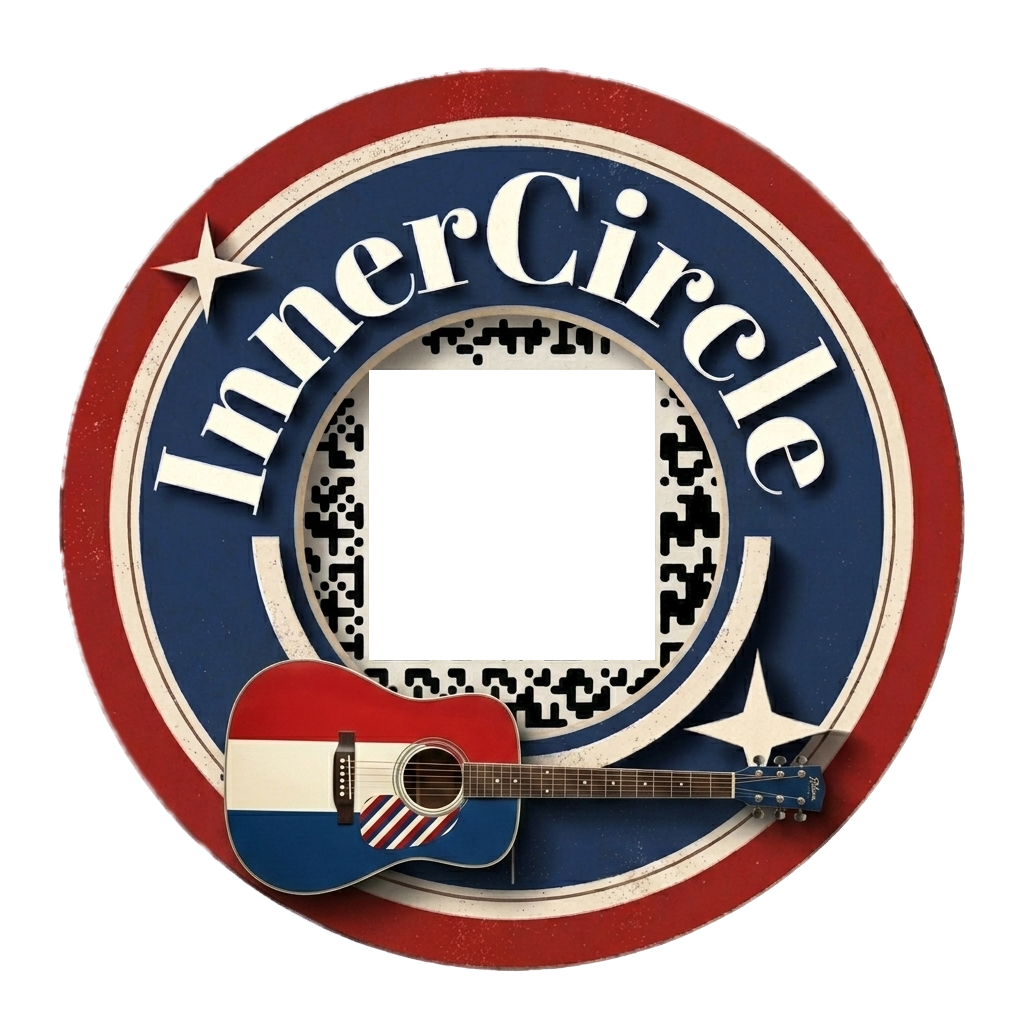
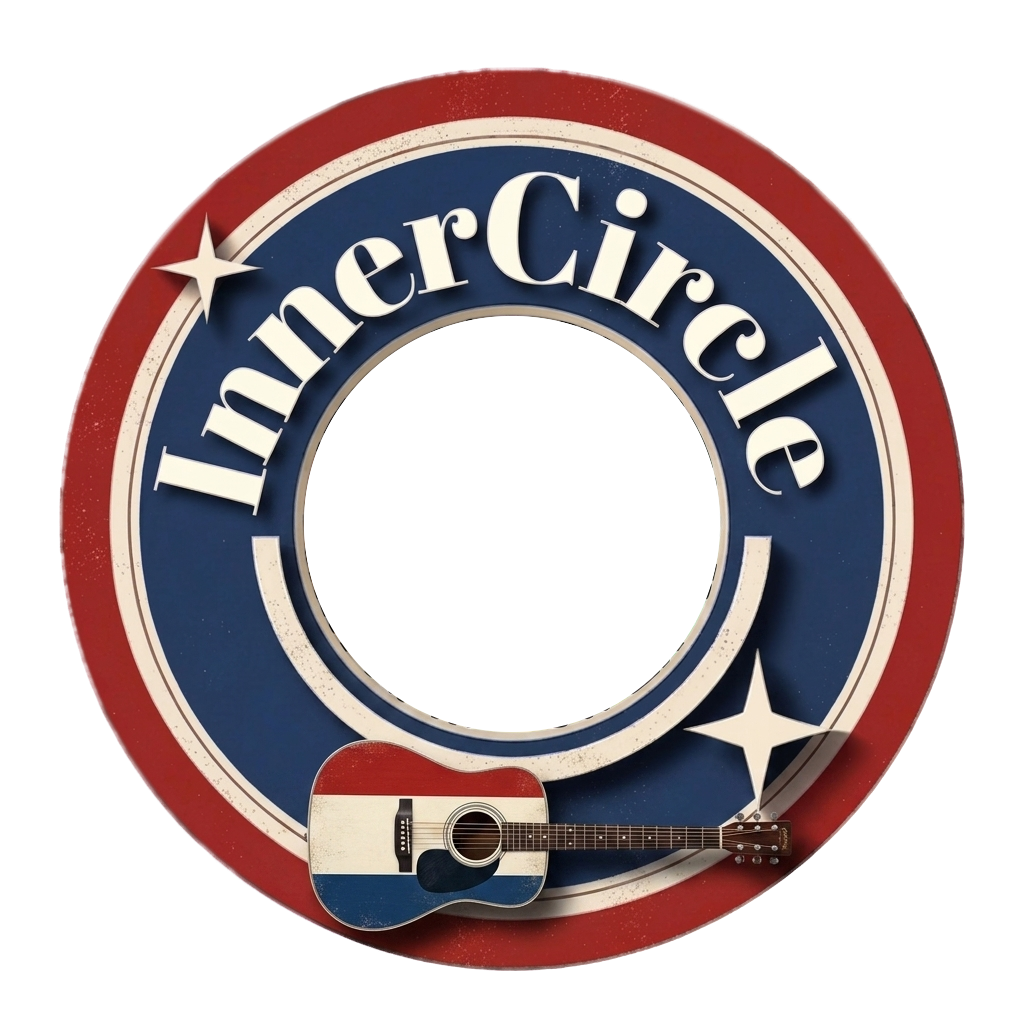
Finalize screen video badge and QR lure field

diff --git a/pete_qr_video.py b/pete_qr_video.py
@@ -62,21 +62,21 @@ badge_center_x = BG_W // 2
 badge_center_y = 320
 
 # QR i badge
-qr_size = 168
+qr_size = 162
 qr_center_x_rel = 280
-qr_center_y_rel = 283
+qr_center_y_rel = 288.4
 
 # Glow / puls
 base_glow_blur = 36
 base_glow_strength = 1.12
 pulse_scale_amount = 0.022
 pulse_speed = 1.0
-unlock_boost_start = 5.2
-unlock_flash_strength = 0.16
+unlock_boost_start = 999
+unlock_flash_strength = 0.0
 
 # Stjerner
 np.random.seed(42)
-num_stars = 260
+num_stars = 420
 stars = []
 
 headline_y = 22
@@ -95,7 +95,7 @@ brand_secondary_color = (200, 205, 214, 255)
 
 # QR-farger
 qr_fill_color = "#000000"
-qr_back_color = "#F4EFE6"
+qr_back_color = "#FFFFFF"
 
 # -----------------------------
 # FONTS
@@ -189,7 +189,11 @@ qr.add_data(qr_data)
 qr.make(fit=True)
 
 qr_img = qr.make_image(fill_color=qr_fill_color, back_color=qr_back_color).convert("RGBA")
-qr_img = qr_img.resize((qr_size, qr_size), Image.Resampling.LANCZOS)
+qr_img = qr_img.resize((int(qr_size * 0.98), int(qr_size * 0.98)), Image.Resampling.LANCZOS)
+
+lure_img = Image.open("assets/qr-lure/innercircle-lure.png").convert("RGBA")
+lure_size = int(qr_size * 1.418)
+lure_img = lure_img.resize((lure_size, lure_size), Image.Resampling.LANCZOS)
 
 # -----------------------------
 # LAST RAMME
@@ -208,7 +212,7 @@ frame_base_x = badge_center_x - FW // 2
 frame_base_y = badge_center_y - FH // 2
 
 paste_x = frame_base_x + qr_center_x_rel - (qr_size // 2)
-paste_y = frame_base_y + qr_center_y_rel - (qr_size // 2)
+paste_y = int(frame_base_y + qr_center_y_rel - (qr_size // 2) - 1)
 
 # -----------------------------
 # GLOW-FORARBEID
@@ -251,19 +255,50 @@ def make_background(t: float) -> Image.Image:
     depth = depth.filter(ImageFilter.GaussianBlur(120))
     canvas.alpha_composite(depth)
 
-    # Stjerner
+    # Living star field
     star_layer = Image.new("RGBA", (BG_W, BG_H), (0, 0, 0, 0))
+    star_draw = ImageDraw.Draw(star_layer, "RGBA")
+
     for s in stars:
-        brightness = int(105 + 120 * (0.5 + 0.5 * math.sin(t * s["speed"] + s["phase"])))
-        y = int((s["y"] + t * 3.2) % BG_H)
+        twinkle = 0.45 + 0.55 * math.sin(t * s["speed"] * 2.1 + s["phase"])
+        brightness = int(65 + 165 * twinkle)
+        y = int((s["y"] + t * 4.2) % BG_H)
 
-        for dx in range(s["size"]):
-            for dy in range(s["size"]):
-                px = s["x"] + dx
-                py = y + dy
-                if 0 <= px < BG_W and 0 <= py < BG_H:
-                    star_layer.putpixel((px, py), (brightness, brightness, brightness, 255))
+        alpha = int(90 + 130 * twinkle)
+        radius = max(1, s["size"])
 
+        star_draw.ellipse(
+            (s["x"] - radius, y - radius, s["x"] + radius, y + radius),
+            fill=(brightness, brightness, brightness, alpha),
+        )
+
+    # One or two subtle shooting stars, behind badge/text
+    shooting_specs = [
+        {"start": 1.15, "duration": 0.95, "x": 545, "y": 105, "dx": -245, "dy": 145},
+        {"start": 5.35, "duration": 0.85, "x": 610, "y": 265, "dx": -210, "dy": 120},
+    ]
+
+    for spec in shooting_specs:
+        progress = (t - spec["start"]) / spec["duration"]
+        if 0 <= progress <= 1:
+            fade = math.sin(progress * math.pi)
+            head_x = spec["x"] + spec["dx"] * progress
+            head_y = spec["y"] + spec["dy"] * progress
+            tail_x = head_x - spec["dx"] * 0.22
+            tail_y = head_y - spec["dy"] * 0.22
+
+            alpha = int(165 * fade)
+            star_draw.line(
+                (tail_x, tail_y, head_x, head_y),
+                fill=(210, 238, 255, alpha),
+                width=2,
+            )
+            star_draw.ellipse(
+                (head_x - 2, head_y - 2, head_x + 2, head_y + 2),
+                fill=(255, 255, 255, int(210 * fade)),
+            )
+
+    star_layer = star_layer.filter(ImageFilter.GaussianBlur(0.25))
     canvas.alpha_composite(star_layer)
     return canvas
 
@@ -342,8 +377,11 @@ def make_frame(t: float):
 
     canvas = make_background(t)
 
-    # QR rent
+    # QR + lurefelt PNG
     qr_layer = Image.new("RGBA", (BG_W, BG_H), (0, 0, 0, 0))
+    lure_paste_x = int(paste_x - (lure_size - qr_size) / 2)
+    lure_paste_y = int(paste_y - (lure_size - qr_size) / 2)
+    qr_layer.alpha_composite(lure_img, (lure_paste_x, lure_paste_y))
     qr_layer.alpha_composite(qr_img, (paste_x, paste_y))
 
     # Glow
